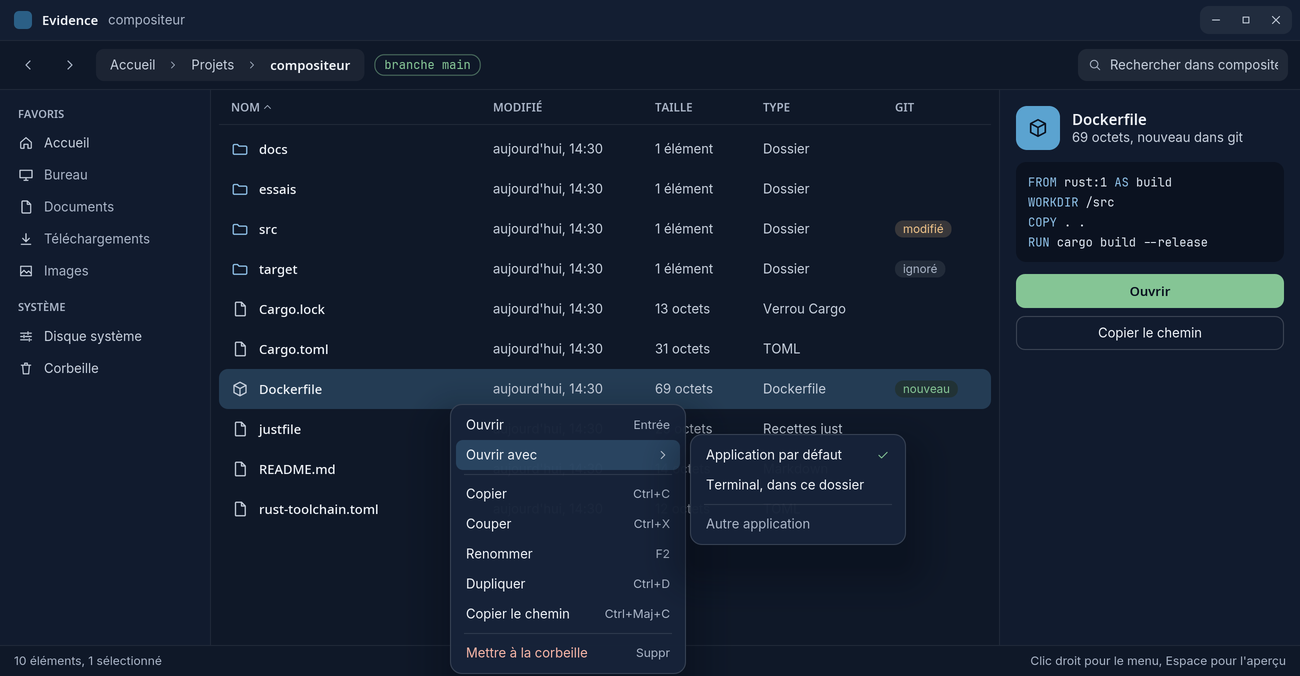
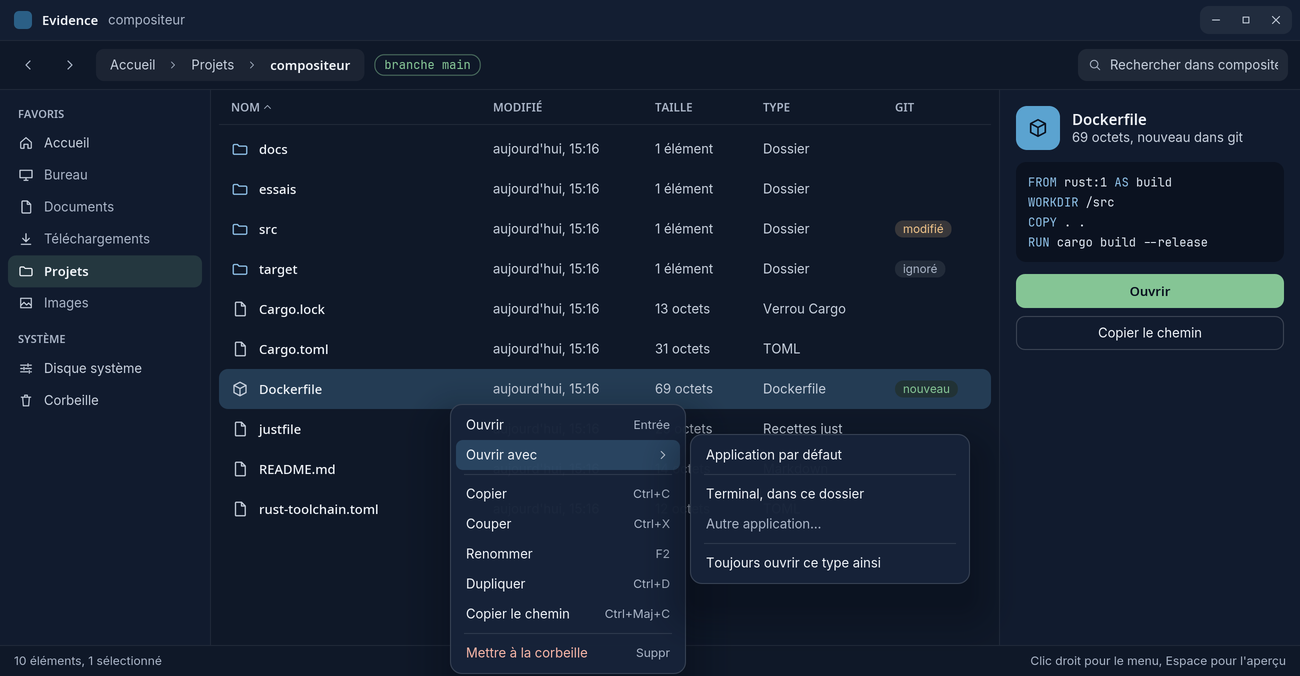
D-27: document the review fixes, the safety choices and mime-apps; wider Open with submenu

diff --git a/desktop/evidence/src/view.rs b/desktop/evidence/src/view.rs
@@ -688,12 +688,8 @@ impl App {
                 .enumerate()
                 .map(|(i, item)| self.menu_entry(*item, menu.highlight == Some(i), false, false));
             let x = menu.at.x + metrics::CONTEXT_MENU_WIDTH + metrics::SUBMENU_GAP;
-            let width = if self.open_with.is_empty() {
-                metrics::CONTEXT_SUBMENU_WIDTH
-            } else {
-                metrics::OPEN_WITH_WIDTH
-            };
-            let sub = ui::menu(entries, width);
+            // Wider than the planche's 216: application names and the "always" switch.
+            let sub = ui::menu(entries, metrics::OPEN_WITH_WIDTH);
             layers.push(pin(sub).x(x).y(menu.at.y + offset).into());
         }
         stack(layers)

diff --git a/desktop/sherlock-ui/src/component.rs b/desktop/sherlock-ui/src/component.rs
@@ -405,11 +405,11 @@ pub fn menu_item_with<'a, Message: Clone + 'a>(
         Trailing::Checked => icon(Icon::Check, metrics::ICON_SIZE_SMALL, color::ACCENT).into(),
     };
     let start: Element<'a, Message> = match leading {
-        Some(leading) => row![leading, body(label)]
+        Some(leading) => row![leading, body(label).wrapping(text::Wrapping::None)]
             .spacing(metrics::GAP_ICON)
             .align_y(Alignment::Center)
             .into(),
-        None => body(label).into(),
+        None => body(label).wrapping(text::Wrapping::None).into(),
     };
     let line = row![start, space::horizontal(), end]
         .spacing(metrics::GAP_INLINE)

diff --git a/desktop/sherlock-ui/src/metrics.rs b/desktop/sherlock-ui/src/metrics.rs
@@ -131,8 +131,8 @@ pub const BADGE_RADIUS: f32 = 8.0;
 /// Right-click menu of a list and its submenu (Evidence mock-up).
 pub const CONTEXT_MENU_WIDTH: f32 = 236.0;
 pub const CONTEXT_SUBMENU_WIDTH: f32 = 216.0;
-/// "Ouvrir avec" submenu once it lists applications: wider than the planche's, for long
-/// application names; at most this many applications.
+/// "Ouvrir avec" submenu: wider than the planche's, for long application names and the
+/// "always" switch; at most this many applications.
 pub const OPEN_WITH_WIDTH: f32 = 280.0;
 pub const OPEN_WITH_MAX: usize = 8;
 /// Height of the list of the application chooser.

diff --git a/desktop/evidence/src/app.rs b/desktop/evidence/src/app.rs
@@ -1242,7 +1242,7 @@ impl App {
         let on_selection = !self.selection.is_empty() && self.device_menu.is_none();
         let height = Self::menu_height(&self.menu_items(on_selection));
         let width = metrics::CONTEXT_MENU_WIDTH + metrics::SUBMENU_GAP;
-        let width = width + metrics::CONTEXT_SUBMENU_WIDTH;
+        let width = width + metrics::OPEN_WITH_WIDTH;
         let at = Point::new(
             at.x.min(self.size.width - width).max(0.0),
             at.y.min(self.size.height - height).max(0.0),

diff --git a/docs/evidence.md b/docs/evidence.md
@@ -17,34 +17,68 @@ renderer is several times slower (see Performance).
 
 | Module | Role | iced |
 | --- | --- | --- |
-| `listing` | Reads a folder, kind of each entry, labels of each row (date, size, kind), sort by column | no |
-| `ops` | Copy, move, rename, duplicate, new folder. Never overwrites; typed errors with French messages | no |
-| `trash` | freedesktop Trash 1.0 in `$XDG_DATA_HOME/Trash`: put, list, restore, empty | no |
-| `git` | Runs `git status --porcelain=v2 -z --branch --ignored` and reads it | no |
-| `preview` | First lines of a text file with light highlighting, image, or information | no |
+| `listing` | Reads a folder, kind of each entry (folder, file, link, special), labels of each row (date, size, kind), sort by column | no |
+| `ops` | Copy, move, rename, duplicate, new folder, on raw (`OsStr`) names. Never overwrites, even in a race; typed errors with French messages | no |
+| `trash` | freedesktop Trash 1.0 in `$XDG_DATA_HOME/Trash`: put, list, restore, remove | no |
+| `git` | Runs `git status --porcelain=v2` with a locked-down configuration and reads it | no |
+| `preview` | First lines of a text file with light highlighting, decoded image, or information | no |
 | `devices` | Reads UDisks2 objects, chooses and names volumes, `DeviceSource` trait | no |
 | `udisks` | The real `DeviceSource`: UDisks2 on the system bus through zbus, and its watcher | no |
+| `icons` | Application icons (hicolor, pixmaps, absolute paths), decoded off the interface thread | no |
 | `places` | Favourites from `user-dirs.dirs` | no |
-| `clock` | Local time (`localtime_r`) | no |
+| `clock` | Local time (`localtime_r`, `mktime`) | no |
 | `probe` | `--measure`: smoothness measurement | no |
 | `app` | State, messages, keyboard, commands, animations | yes |
 | `view` | The window, after the planche | yes |
 | `scenarios` | End-to-end tests driven by the keyboard, headless capture | tests |
 
-Nothing slow runs in `update` or `view`. Reading a folder (with one `stat` per entry and the
-item count of each subfolder), the git state, the preview, the trash listing, copies, moves,
-emptying the trash and every device action are tasks on iced's thread pool. A folder read
-carries a generation number, so a slow read overtaken by a newer navigation is dropped.
+Installed applications, file types and default applications come from the workspace crate
+`mime-apps` (`docs/mime-apps.md`), which Control Room will reuse.
+
+No file system access runs in `update` or `view`. Reading a folder (with one `stat` per
+entry and the item count of each subfolder), checking which favourites exist, the git
+state, the preview (text read and image decoding), the trash listing, copies, moves,
+renames, new folders, restoring, emptying the trash, launching programs, reading the
+applications and their icons, writing `mimeapps.list` and every device action are tasks on
+iced's thread pool. A folder read carries a generation number, so a slow read overtaken by a
+newer navigation is dropped. `view` only reads what those tasks cached.
 
 The list is virtualised: only the visible rows and four more above and below are in the
 widget tree, between two spacers. Row labels are computed once when the folder is read, icons
 are built once (`sherlock_ui::component::icon` caches the SVG handles).
 
+## Safety
+
+- **Special files.** A named pipe, a socket or a device is listed as "Fichier spécial" and
+  never opened: the preview opens regular files only, checks the type again on the open
+  descriptor, opens with `O_NONBLOCK`, and gives up after 2 s on its own thread. A copy
+  recreates named pipes (`mkfifo`) without reading them, and leaves sockets and devices aside
+  with a message.
+- **git.** Listing a folder must not run code, even from a repository found on a USB key or
+  in an archive. Evidence runs git with `GIT_CONFIG_NOSYSTEM=1`, `GIT_CONFIG_GLOBAL=/dev/null`,
+  none of the caller's `GIT_*` variables, `--no-optional-locks`, and forced settings that win
+  over the repository's `.git/config` and the files it includes: `core.fsmonitor=false`,
+  `core.untrackedCache=false`, `core.hooksPath=/dev/null`, no pager, no ask-pass, no external
+  diff. It first reads (without running anything) the filter drivers the repository declares,
+  then empties each one (`filter.<name>.clean=`, `.smudge=`, `.process=`, `.required=false`),
+  which git treats as no filter. Submodules, each with its own configuration, are not entered
+  (`--ignore-submodules=all`). A test builds a trapped repository (fsmonitor, clean and process
+  filters, an included file) and checks that no command ran while the state is still read.
+  Asking the user to trust each repository was the alternative; it adds a question for every
+  project folder, for no more safety once the configuration is locked down.
+- **No overwrite, even in a race.** Copies create files with `create_new`; renames and moves
+  use `renameat2(RENAME_NOREPLACE)` (a plain check then rename on filesystems without it).
+- **Failures clean up.** A copy, or a move between disks, that fails removes what it created
+  at the destination; the source is untouched. Modification times are kept from one disk to
+  another.
+- **Names are bytes.** Copy, move and conflict names keep the exact bytes of a name that is not
+  UTF-8; only the display is lossy.
+
 ## What it does
 
-- Sidebar: Favourites (home, Desktop, Documents, Downloads, Pictures, from xdg-user-dirs),
-  Devices, System (system disk, trash). The favourite that contains the current folder is
-  active; Home only for the home folder itself.
+- Sidebar: Favourites (home, Desktop, Documents, Downloads, Projets when `~/Projets` exists,
+  Pictures, from xdg-user-dirs), Devices, System (system disk, trash). The favourite that
+  contains the current folder is active; Home only for the home folder itself.
 - Toolbar: back, forward, breadcrumb (folded with "…" beyond five segments), git branch,
   search in the current folder.
 - List: name with an icon per kind, modified date, size (item count for folders), kind, git
@@ -53,23 +87,31 @@ are built once (`sherlock_ui::component::icon` caches the SVG handles).
 - Preview: header with tile, size and git state; first lines of a text file in JetBrains Mono
   with keywords and comments coloured (Dockerfile, Rust, TOML, shell, Python); PNG and JPEG
   images; date, kind and place for the rest. Buttons: Open, Copy path (Restore in the trash).
-- Context menu as on the planche, with the "Open with" submenu: default application, terminal
-  in this folder. On the background: new folder, paste, hidden files. In the trash: restore,
-  empty. On a device: open or mount, unmount, eject.
+- Context menu as on the planche. "Ouvrir avec" lists the installed applications that open the
+  file's type (from their `.desktop` files, with their icon, the default first and checked),
+  then "Terminal, dans ce dossier", "Autre application…" (a chooser of every application, with
+  a search), and the switch "Toujours ouvrir ce type ainsi". With the switch on, the chosen
+  application becomes the default in `~/.config/mimeapps.list`; opening a file then uses the
+  default application of its type (xdg-open when there is none). On the background: new folder,
+  paste, hidden files. In the trash: restore, empty. On a device: open or mount, unmount, eject.
 - Trash: deleting moves to the freedesktop trash (shared with Plasma, GNOME, `gio trash`).
-  The trash view lists the original name, deletion date and origin. Emptying asks first.
+  The trash view lists the original name, the deletion date read from the record, and the
+  origin. Emptying asks first and deletes only what was listed when the question was asked.
+  Long names are cut in the record's name, never refused; no empty record is left behind.
 - Operations: copy, cut, paste, duplicate, rename in place, new folder (named right away).
   Pasting a copy over a taken name makes "name (copie).ext"; a move or rename onto a taken
   name is refused with a message. Copying a folder into itself is refused.
-- Devices: internal partitions mounted by the user, USB keys, external disks, memory cards,
-  optical discs, from UDisks2. Name: volume label, else UDisks' name hint, else model and size,
-  else "Volume de 32 Go". Icon by kind. Free space when mounted. A click mounts (through
-  `Filesystem.Mount`, so polkit asks when needed) then opens. Unmount and eject in the menu,
-  eject button beside removable media. A medium plugged in or pulled out shows up or goes away
-  at once (UDisks2 signals watched on a thread). Hidden: what UDisks marks `HintIgnore`, what it
-  marks `HintSystem` unless mounted outside system places, anything mounted at `/`, `/boot`,
-  `/efi`, `/usr`, `/var` or `/home`, and blocks without a drive (loop devices, zram). LUKS
-  volumes show locked.
+- Devices: internal data partitions (mounted or not, even when UDisks marks them
+  `HintSystem`), USB keys, external disks, memory cards, optical discs, from UDisks2. Name:
+  volume label, else UDisks' name hint, else model and size, else "Volume de 32 Go". Icon by
+  kind. Free space when mounted. A click mounts (through `Filesystem.Mount`, so polkit asks
+  when needed) then opens. Unmount and eject in the menu, eject button beside removable media.
+  A medium plugged in or pulled out shows up or goes away at once (UDisks2 signals watched on a
+  thread). Hidden: what UDisks marks `HintIgnore`; anything mounted at `/`, `/boot`, `/efi`,
+  `/usr`, `/var` or `/home`; unmounted EFI, extended boot, BIOS boot, Microsoft reserved,
+  Windows recovery and swap partitions (by partition type) and blocks without a mountable
+  filesystem; blocks without a drive (loop devices, zram). LUKS volumes show locked. Eject is
+  refused when no drive can be found for the volume.
 
 ## Keyboard
 
@@ -169,17 +211,19 @@ with the planche at 1440 × 900 (the window is 1300 × 676, as on the planche).
 
 ## Gaps with the planche
 
-- No grid or column views: list only (the lot's size went to smoothness and devices).
+- No grid or column views: list only.
 - No "Ask Sherlock" button, Sherlock bubble, "Build the image" or "Run in a sandbox"
   buttons, no Dev section (Docker volumes, sandboxes): out of this lot's scope.
-- "Open with" offers the default application and a terminal in the folder; "Other
-  application" is shown disabled. The planche's "Editor" and "Sandbox" entries are not there.
+- "Ouvrir avec" is wider than the planche's submenu (280 instead of 216): application names
+  and the "always" switch. The planche's "Éditeur" entry is the list of installed
+  applications; its "Bac à sable" entry is out of scope.
 - The open submenu entry uses the selection token at 0.26 (the planche has 0.30; see
   `docs/sherlock-ui.md`).
 - A selected row's git badge sits on the darkest background: the planche's veil would fall
   under 4.5:1 contrast on the selection.
 - The search field has no clear button. Column header letter spacing is not supported by iced.
-- The sort arrow next to the sorted column is an addition.
+- The sort arrow next to the sorted column is an addition, and so are Copier and Couper in
+  the context menu.
 - The planche has no Devices section: its entries use the sidebar's style, with an eject
   button in the style of sherlock-ui's icon buttons.
 - The context menu scales in but cannot fade (see Animations).
@@ -192,32 +236,40 @@ with the planche at 1440 × 900 (the window is 1300 × 676, as on the planche).
 - Copy progress is a message in the status bar, without a percentage; a copy cannot be
   cancelled.
 - The trash handles the home trash only: a file on another disk is refused with a message.
+  `directorysizes` is not maintained yet (the specification makes it optional).
 - Encrypted volumes show locked; unlocking them is not done yet.
-- Internal partitions that UDisks marks `HintSystem` show only once mounted elsewhere than the
-  system's places. On the reference laptop (EFI, root, swap), the Devices section is empty until
-  a key or a card is plugged in.
+- File types come from names (`globs2`); content sniffing (`magic`) is not done.
+- Application icons are looked up in hicolor and pixmaps only, not in the current icon theme.
+  Applications with `Terminal=true` are started directly, not in a terminal.
 - Long names are cut from an estimated character width, not measured text.
-- Image preview decodes PNG and JPEG only, on the interface thread at draw time.
 - Accessibility: iced 0.14 exposes nothing to screen readers (ADR 0014).
 
 ## Tests
 
-`just verifier` runs them without a screen, on temporary folders. The trash used by the tests is
-in the temporary folder, never the user's; no test calls the real UDisks.
+`just verifier` runs them without a screen, on temporary folders. The trash, the XDG
+directories and `mimeapps.list` used by the tests are in the temporary folder, never the
+user's; no test calls the real UDisks.
 
-- `ops`: copy (with links), duplicate and name conflicts, folder into itself, move and refused
-  move, rename and invalid names, new folder.
+- `ops`: copy (with links), named pipes recreated and never read, names that are not UTF-8,
+  modification times kept, a failed copy that leaves nothing, no-replace rename, duplicate and
+  name conflicts, folder into itself, move and refused move, rename and invalid names, new
+  folder.
 - `trash`: put and restore (folder recreated), two items with the same name, refused restore,
-  empty, path encoding.
-- `git`: porcelain v2 parsing (renames, spaces, root prefix, whole ignored folder) and a real
-  repository.
-- `listing`: sort by each column, natural order, kinds.
-- `preview`, `places`, `clock`, `devices` (filtering, naming, kinds, free space and errors
-  from UDisks2 objects recorded with `busctl --json` on the reference laptop, plus a USB key,
+  emptying only the listed items, long names, orphan items, the deletion date from the record,
+  path encoding.
+- `git`: porcelain v2 parsing (renames, spaces, root prefix, whole ignored folder), a real
+  repository, and a trapped repository that must run nothing.
+- `listing`, `preview` (named pipe never opened, image decoded, broken image), `places`,
+  `clock`, `icons`, `devices` (filtering, internal data partitions, naming, kinds, free space
+  and errors from UDisks2 objects recorded with `busctl --json`, made anonymous, plus a USB key,
   an SD card and a LUKS disk in the same format).
 - `scenarios`: keyboard navigation, copy/cut/paste and conflicts, rename and new folder, trash
   with restore and confirmed emptying, context menu from the keyboard, devices through a fake
-  source (mount and open, menu, eject, locked, busy), and a headless capture of the window.
+  source, "Ouvrir avec" with fake applications and a default written to a temporary
+  `mimeapps.list`, and a headless capture of the window.
+- `sherlock_ui::animated`: the hover fade, and a reused row that starts from rest;
+  `sherlock_ui::component`: no hover on a disabled control.
+- `mime-apps`: see `docs/mime-apps.md`.
 
 ## Manual procedure
 
@@ -229,9 +281,14 @@ On the author's laptop, Plasma X11:
    folder (rows rise and fade in), right-click (the menu scales in), hover "Ouvrir avec".
 3. In a scratch folder: copy, cut, paste, Ctrl+D, F2, Ctrl+Shift+N, Delete, then the trash:
    restore, then empty (the question appears; Escape cancels).
-4. Plug in a USB key: it appears under Appareils. Click it: Plasma's polkit agent may ask for
+4. Right-click a text file, hover "Ouvrir avec": the editors installed on the laptop are
+   listed with their icon. Turn on "Toujours ouvrir ce type ainsi", pick one: it opens, and
+   `~/.config/mimeapps.list` gains it under `[Default Applications]` (back the file up first;
+   the other lines stay as they were). Enter on another file of the same type opens it with
+   that application. "Autre application…" lists every application, with a search.
+5. Plug in a USB key: it appears under Appareils. Click it: Plasma's polkit agent may ask for
    the password, then the key opens. Right-click: Démonter, Éjecter. Click the eject button:
    the key disappears from the list and the status bar says it can be removed. With a file of
    the key open in another program, Démonter shows the "busy" message.
-5. `RUST_LOG=evidence=info cargo run --release -p evidence -- --measure <folder of 5,000
+6. `RUST_LOG=evidence=info cargo run --release -p evidence -- --measure <folder of 5,000
    files> --maximized` and read the three `measure:` lines.

diff --git a/docs/mime-apps.md b/docs/mime-apps.md
@@ -1,0 +1,75 @@
+# mime-apps
+
+`desktop/mime-apps` answers three questions for the desktop: which applications are
+installed, what type a file is, and which application opens a type by default. Evidence uses
+it for "Ouvrir avec" and for opening files; the "Default applications" page of Control Room
+(lot D-26) will reuse it. It depends on the standard library only, reads and writes plain
+files, and never runs `xdg-mime` or talks to D-Bus.
+
+It follows three freedesktop specifications:
+
+| Specification | What it reads or writes |
+| --- | --- |
+| Desktop Entry 1.5 | `applications/**/*.desktop` in every XDG data directory |
+| Shared MIME-info 0.21 | `mime/globs2` and `mime/subclasses` in every XDG data directory |
+| MIME Applications Associations 1.0.1 | every `mimeapps.list`, and the user's one for writing |
+
+## API
+
+```rust
+use mime_apps::{Catalog, Dirs};
+
+let dirs = Dirs::from_env(&home);                 // XDG_* variables, or their defaults
+let catalog = Catalog::load(dirs, &desktops, &locales); // read once, off the interface thread
+let mime = catalog.mime.type_of(path, is_dir);   // "text/rust", "inode/directory"…
+let apps = catalog.handlers(&mime);              // who opens it, the default first
+let default = catalog.default_for(&mime);
+let (program, args) = default?.command(&[path.to_path_buf()])?; // Exec expanded, no shell
+mime_apps::set_default(&catalog.dirs, &mime, &app.id)?;        // remember a choice
+```
+
+- `Dirs` holds the XDG directories (`config_home`, `config_dirs`, `data_home`, `data_dirs`).
+  Tests build one on a temporary folder.
+- `Catalog::load(dirs, desktops, locales)`: `desktops` are the lower-case names of
+  `XDG_CURRENT_DESKTOP` (`kde`), for `kde-mimeapps.list`; `locales` the names to try for
+  application names, most specific first (`fr_FR`, `fr`).
+- `Catalog::handlers(mime)`: the associations' defaults for the type and its parents, then the
+  added associations, then the applications declaring the type, then those declaring a parent
+  (`text/rust` derives from `text/plain`, every `text/*` does). Removed associations are left
+  out. No duplicates, by desktop id or by name and command.
+- `Catalog::choosable()`: every application not hidden from menus, by name, for a "choose an
+  application" list.
+- `DesktopEntry::command(files)`: splits `Exec` with its quoting rules and expands the field
+  codes (`%f %F %u %U %i %c %k %%`; deprecated codes are dropped).
+- `set_default(dirs, mime, app)`: in `$XDG_CONFIG_HOME/mimeapps.list`, puts `app` first for
+  `mime` under `[Default Applications]` and `[Added Associations]`, keeps the other
+  applications after it, and leaves every other section, entry, comment and blank line as it
+  was. The file is written beside the old one, flushed, then renamed over it: another program
+  reading it sees the old file or the new one, never half of one. The file's permissions are
+  kept.
+
+## Order of the files
+
+Reading merges, most important first: for `$XDG_CONFIG_HOME`, then each `$XDG_CONFIG_DIRS`,
+then `$XDG_DATA_HOME/applications` and each `$XDG_DATA_DIRS/applications`, the
+desktop-specific `<desktop>-mimeapps.list` before `mimeapps.list`. A desktop id found in a more
+important data directory hides the same id further down, even when that first entry is
+`Hidden=true` (how a user removes a system application).
+
+## Limits
+
+- Types come from file names (`globs2`, case-insensitive unless the pattern says `cs`);
+  content sniffing (`magic`) is not done. An unknown name is `application/octet-stream`.
+- The `mimeinfo.cache` files are not read: applications are scanned directly, which also
+  covers user entries that no cache lists.
+- `TryExec`, `OnlyShowIn` and `NotShowIn` are not checked yet.
+- Icons are not part of this crate: Evidence looks them up in hicolor and pixmaps
+  (`desktop/evidence/src/icons.rs`).
+
+## Tests
+
+`cargo test -p mime-apps`, on temporary XDG directories only: desktop entries (localised
+names, hidden entries, user entries hiding system ones), `Exec` expansion with quotes and
+field codes, type detection (patterns, case, longest pattern), parent types, merging of
+several `mimeapps.list` files, writing a default that keeps everything else, creating a missing
+file, and handlers ordered with the default first.
